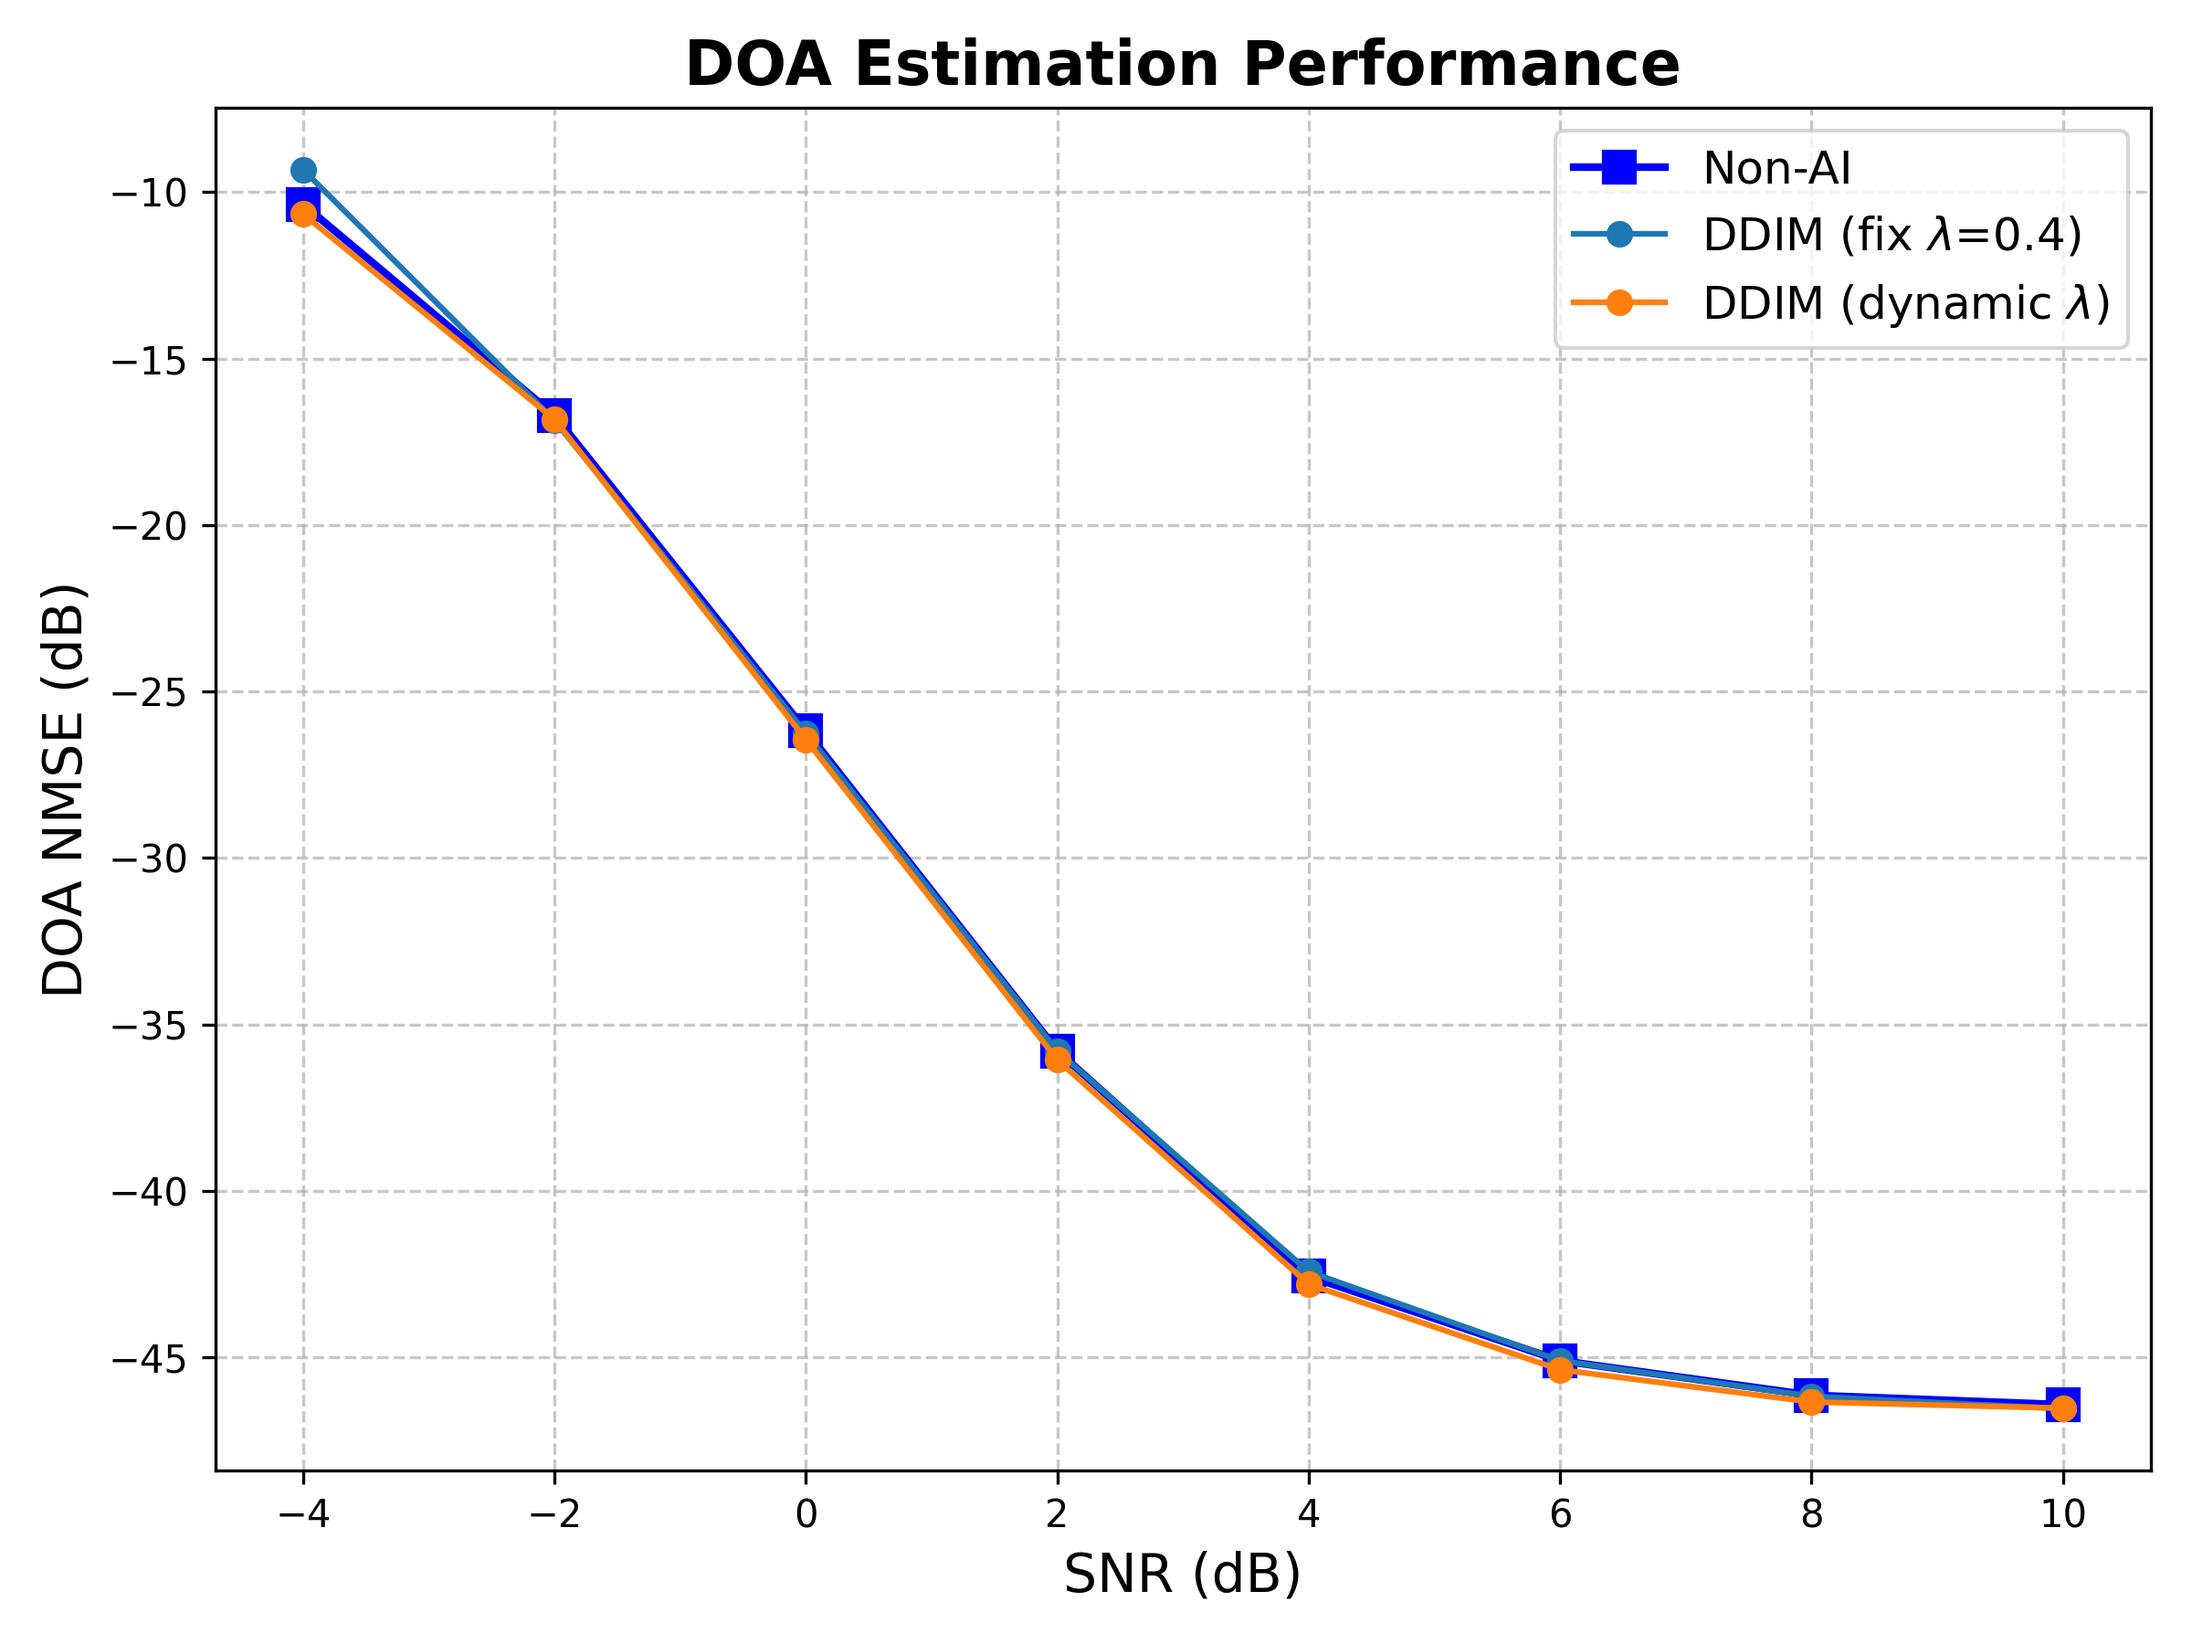
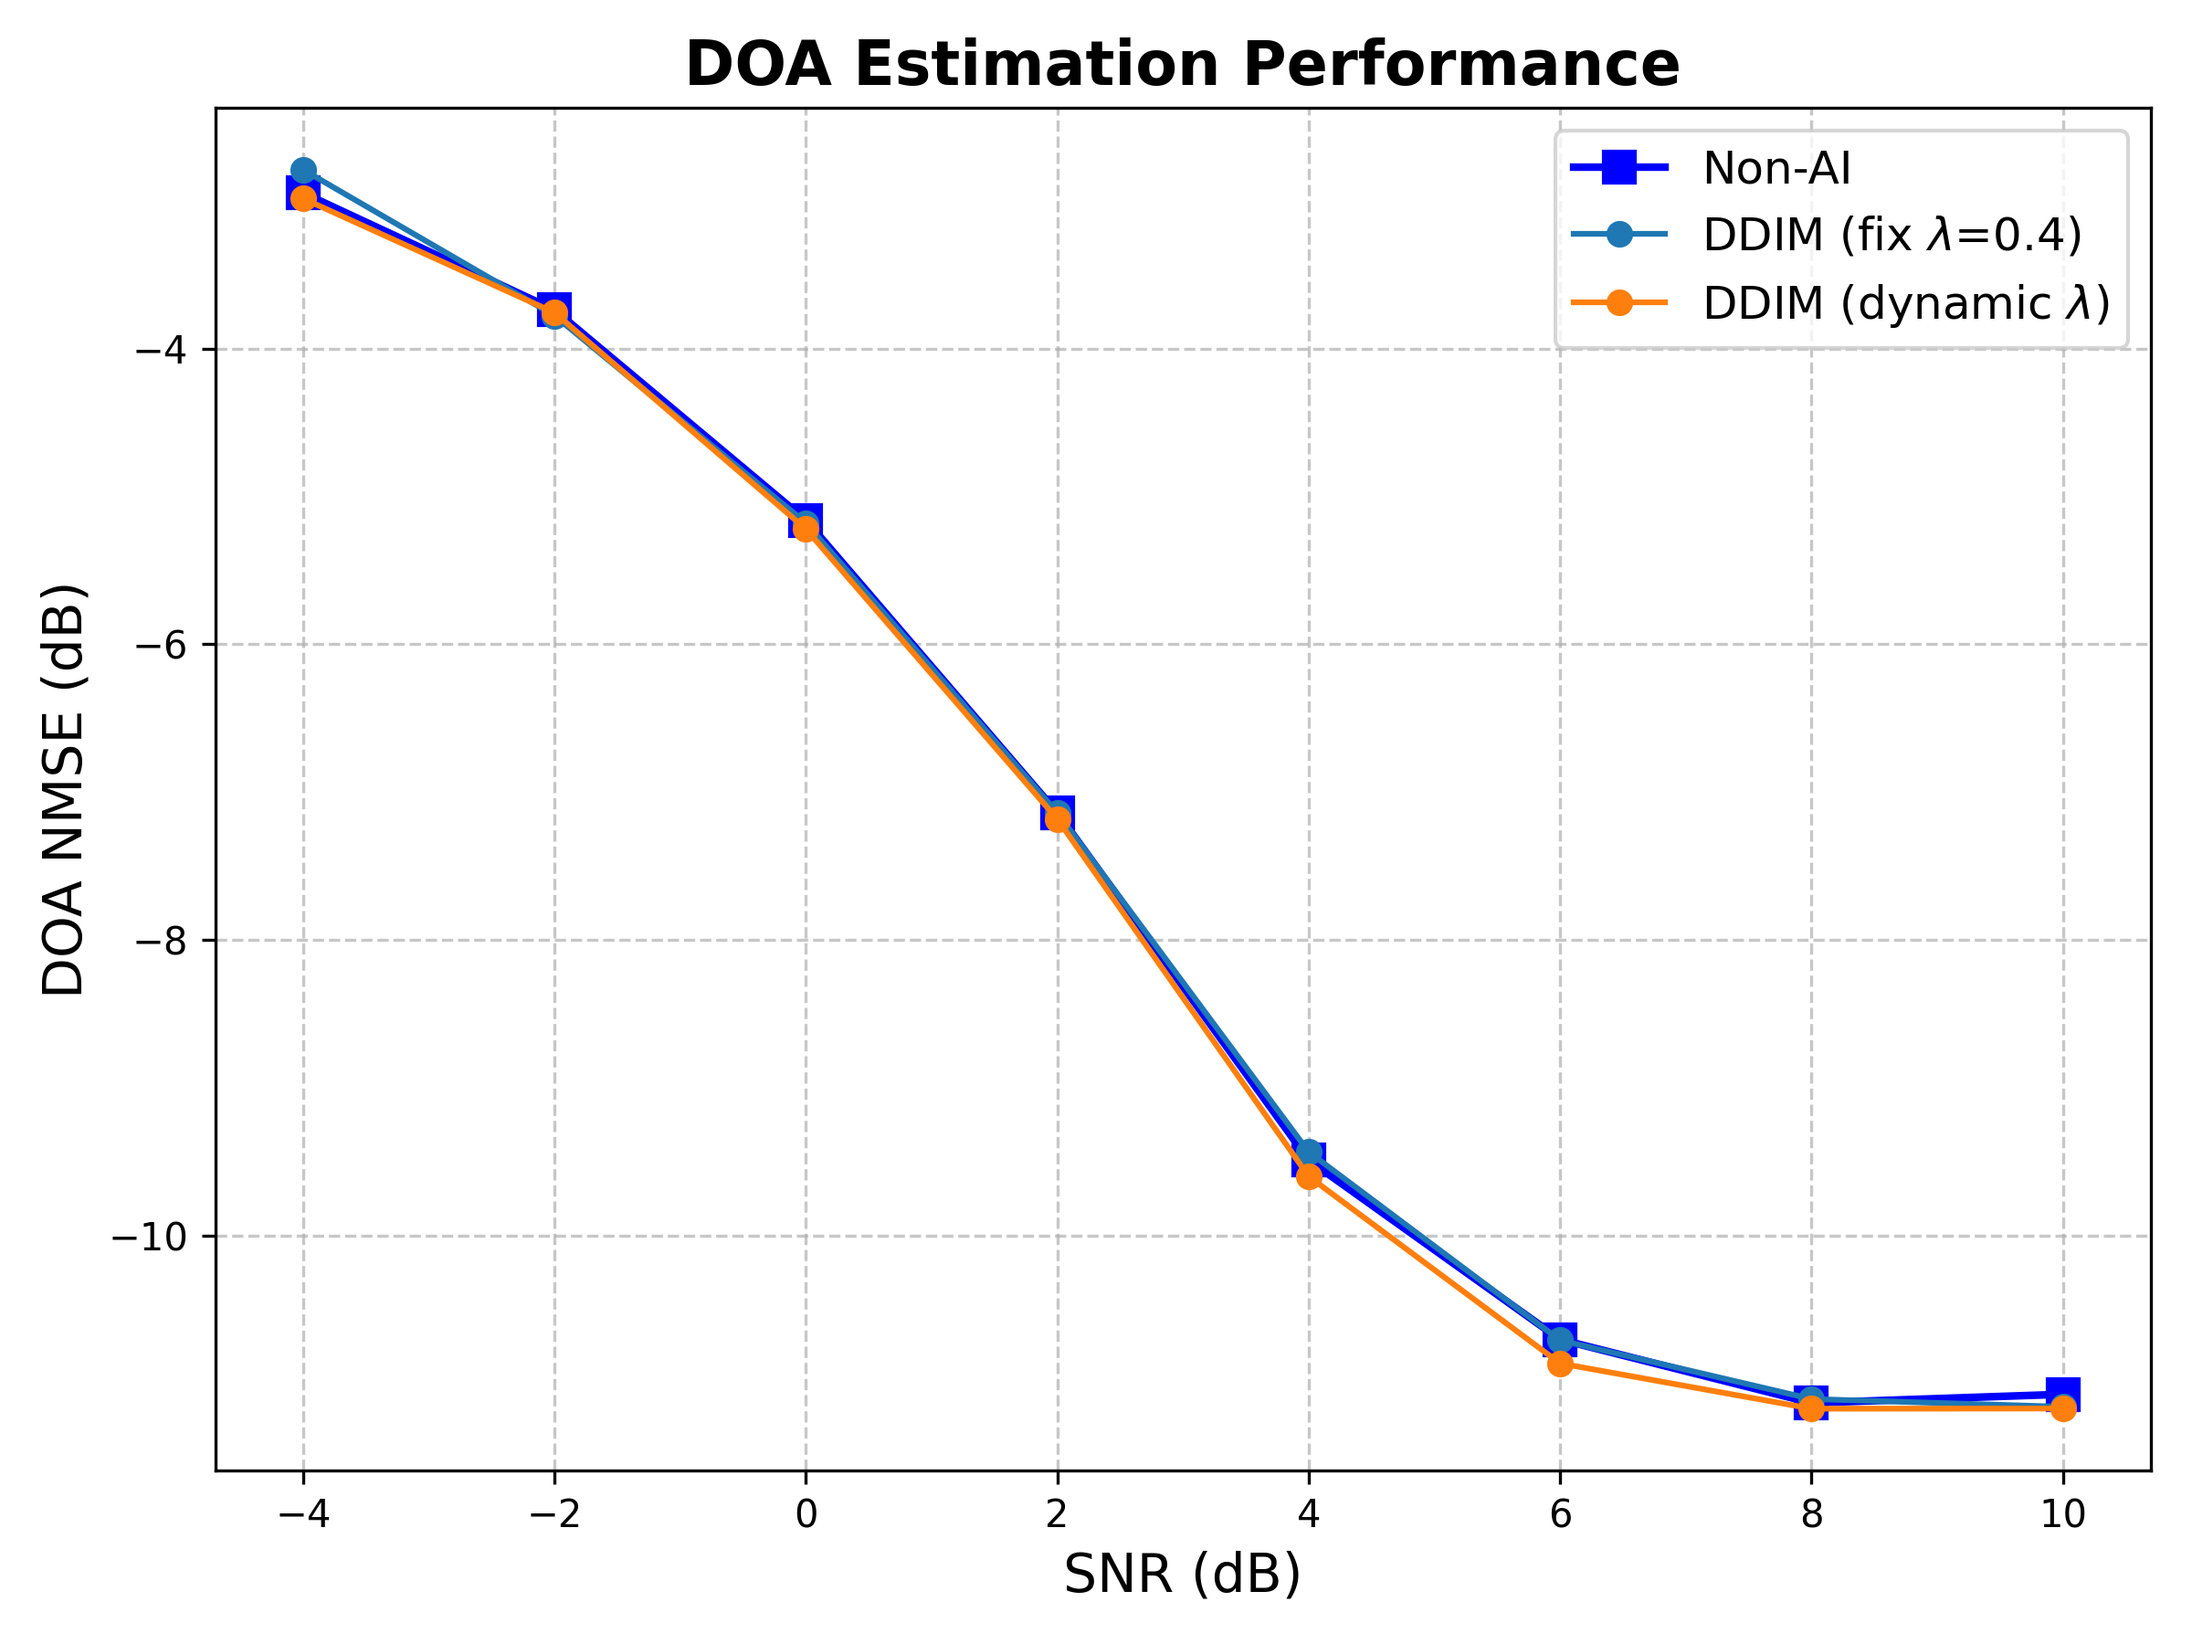
fix(em): refine NMSE calculation and EM iterations - Reverted NMSE calculation to log of mean. - Reduced EM iterations (`num_outer=10, num_inner=5`). - Fixed tilting upward issue at 10dB MCM NMSE (monotonely decreasing now).
- Note: Fixed lambda still shows instability at -4dB MCM. (discard in
the future)

diff --git a/sim2/DDIM/test_results/NMSE_calculation.py b/sim2/DDIM/test_results/NMSE_calculation.py
@@ -33,16 +33,16 @@ def calculate_nmse_theta_M(theta_est, M_est, theta_true, M_true, snr, device=Non
     theta_est_sorted, _ = torch.sort(theta_est, dim=1)
 
     # 1. --- Theta NMSE ---
-    theta_error = torch.norm(theta_true_sorted - theta_est_sorted, p=2, dim=1)
-    theta_ref = torch.norm(theta_true_sorted, p=2, dim=1)
+    theta_error = torch.norm(theta_true_sorted - theta_est_sorted, p=2, dim=1)**2
+    theta_ref = torch.norm(theta_true_sorted, p=2, dim=1)**2
     nmse_per_sample = theta_error / (theta_ref + 1e-8)
-    theta_nmse_db = torch.mean(20 * torch.log10(nmse_per_sample + 1e-8))
+    theta_nmse_db = 10 * torch.log10(torch.mean(nmse_per_sample + 1e-8))
 
     # 2. --- M Matrix NMSE ---
     M_error = torch.norm(M_true - M_est, p='fro', dim=(1, 2))**2
     M_ref = torch.norm(M_true, p='fro', dim=(1, 2))**2
     M_nmse_per_sample = M_error / (M_ref + 1e-8)
-    M_nmse_db = torch.mean(10 * torch.log10(M_nmse_per_sample + 1e-8))
+    M_nmse_db = 10 * torch.log10(torch.mean(M_nmse_per_sample + 1e-8))
 
     # 3. --- Print Results ---
     num_samples = theta_est.shape[0]

diff --git a/sim2/DDIM/main_fixed_lambda.py b/sim2/DDIM/main_fixed_lambda.py
@@ -26,7 +26,7 @@ N=16         # N: # of antennas
 P=3          # P: # of paths/sources
 L=128        # L: # of snapshots (how many we collect \y)
 SNR_LEVELS=[-4, -2, 0, 2, 4, 6, 8, 10]
-CUDA = 1
+CUDA = 0
 
 # Training settings
 NUM_EPOCHS = 50
@@ -130,7 +130,7 @@ elif MODE == 'test':
         # --- 2. Estimate theta and \C_R using EM algorithm ---
         theta_est_batch, M_est_batch = alternating_estimation_monotone_batch(
                                             x0_est_all, N, P,
-                                            num_outer=5, num_inner=50,
+                                            num_outer=10, num_inner=5,
                                             lr_theta=5e-2, lr_M=1e-2,
                                             toeplitz_K=5, device=device)
 

diff --git a/sim2/DDIM/main_dynamic_lambda.py b/sim2/DDIM/main_dynamic_lambda.py
@@ -114,7 +114,7 @@ elif MODE == 'test':
         # --- 2. Estimate theta and \C_R using EM algorithm ---
         theta_est_batch, M_est_batch = alternating_estimation_monotone_batch(
                                             x0_est_all, N, P,
-                                            num_outer=5, num_inner=50,
+                                            num_outer=10, num_inner=5,
                                             lr_theta=5e-2, lr_M=1e-2,
                                             toeplitz_K=5, device=device)
 

diff --git a/sim2/DDIM/test_baseline_non_AI.py b/sim2/DDIM/test_baseline_non_AI.py
@@ -14,8 +14,8 @@ SNR_LEVELS = [-4, -2, 0, 2, 4, 6, 8, 10]
 NUM_TEST_SAMPLES = 3000
 
 # EM parameters
-NUM_OUTER_EM = 5      
-NUM_INNER_EM = 50     
+NUM_OUTER_EM = 10      
+NUM_INNER_EM = 5     
 LR_THETA = 5e-2
 LR_M = 1e-2
 TOEPLITZ_K = 5        
